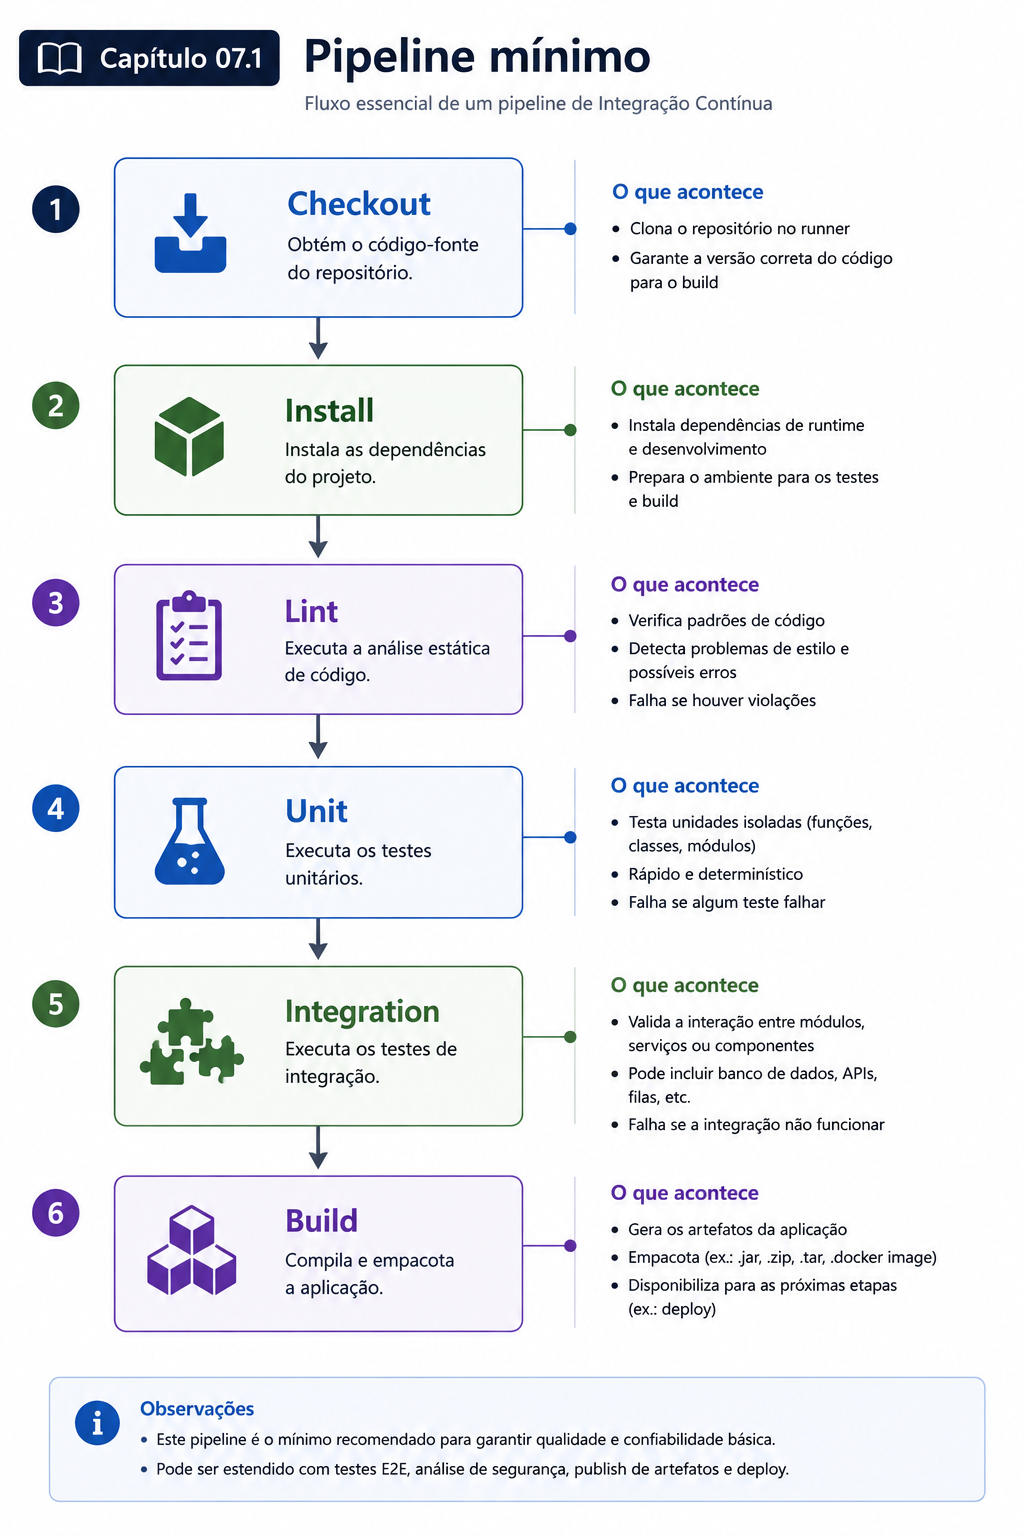
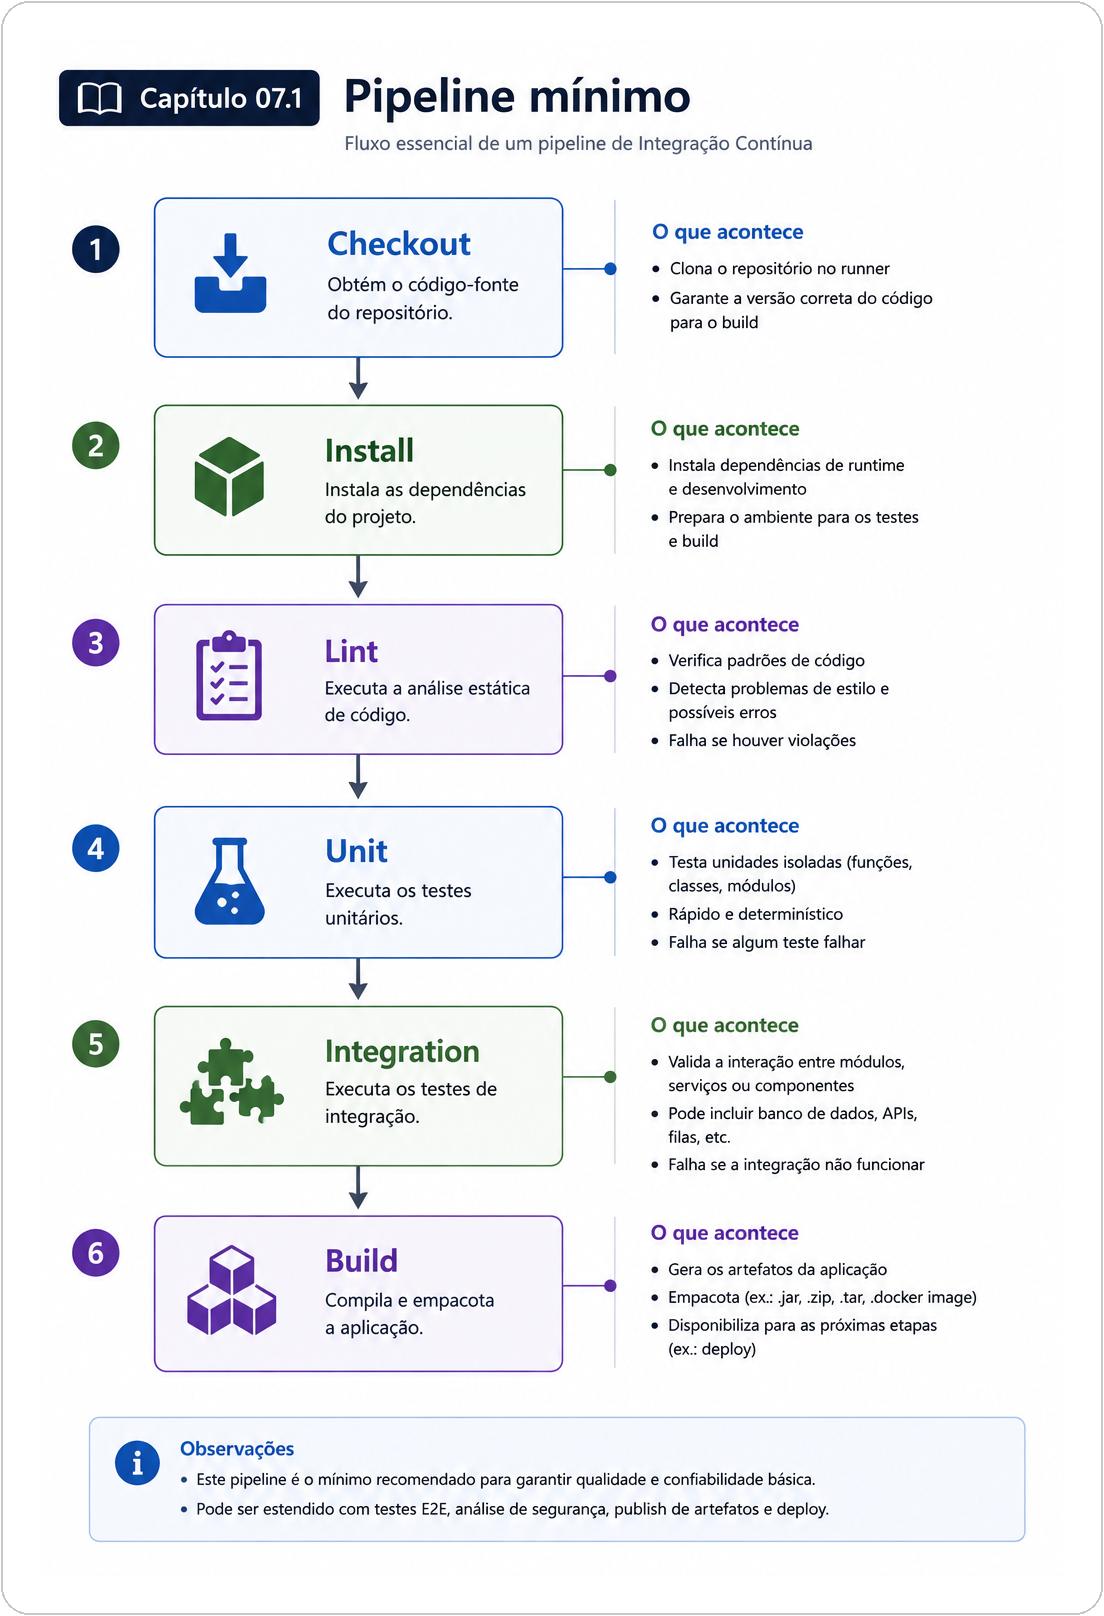
Substitui ASCII do pipeline mínimo por img8.png na seção 07.1

diff --git a/00_MASTER_CICD_GitHub_Runners_IA.md b/00_MASTER_CICD_GitHub_Runners_IA.md
@@ -427,19 +427,9 @@ Execução de suítes extensas fora do ciclo da PR.
 
 #### Capítulo 07.1 — Pipeline mínimo
 
-```text
-Checkout
-   |
-Install
-   |
-Lint
-   |
-Unit
-   |
-Integration
-   |
-Build
-```
+<p align="center">
+  <img src="img8.png" alt="Pipeline mínimo de CI: checkout, install, lint, unit, integration e build, com o que acontece em cada etapa" width="720">
+</p>
 
 #### Capítulo 07.2 — Pipeline para Node.js
 
